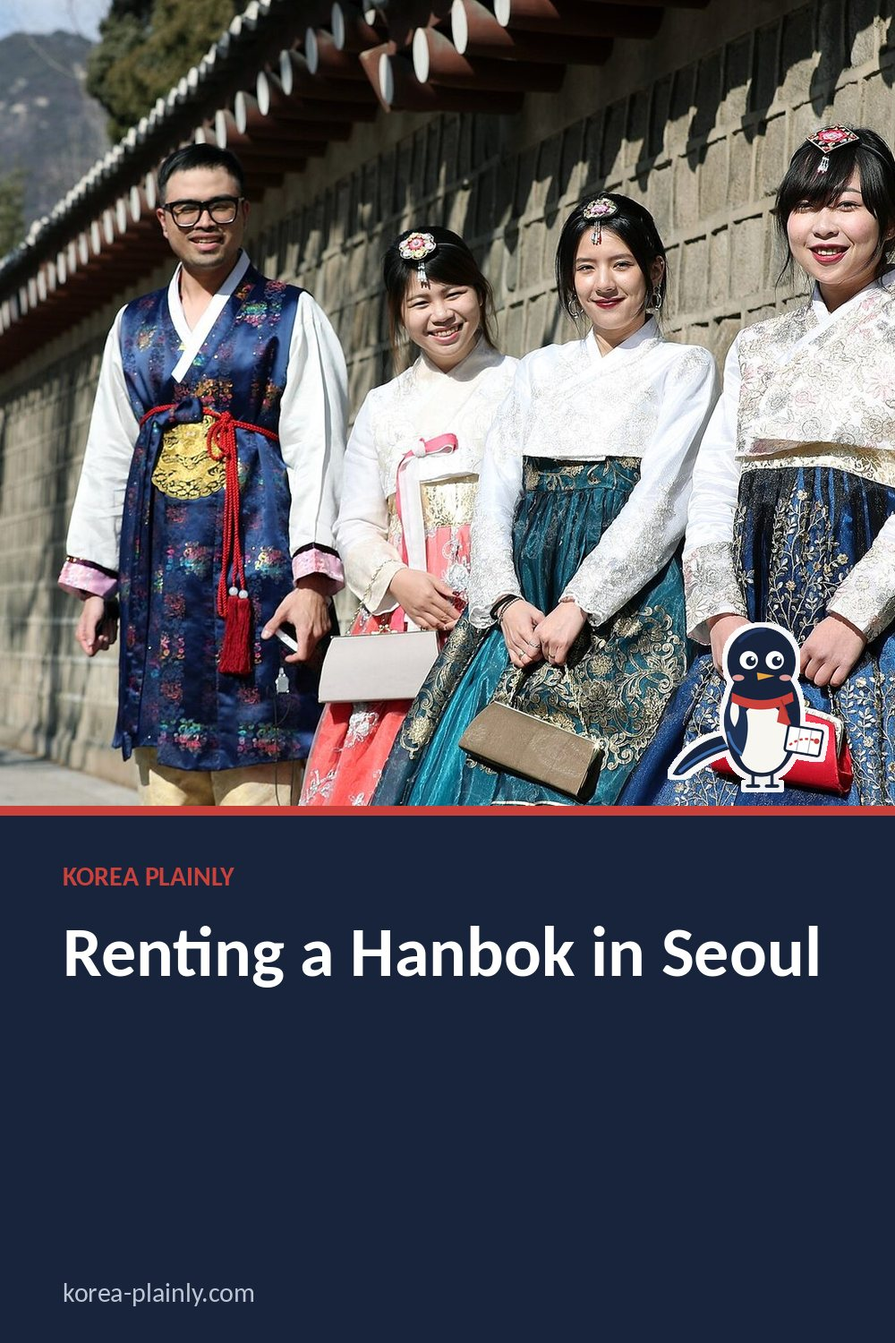
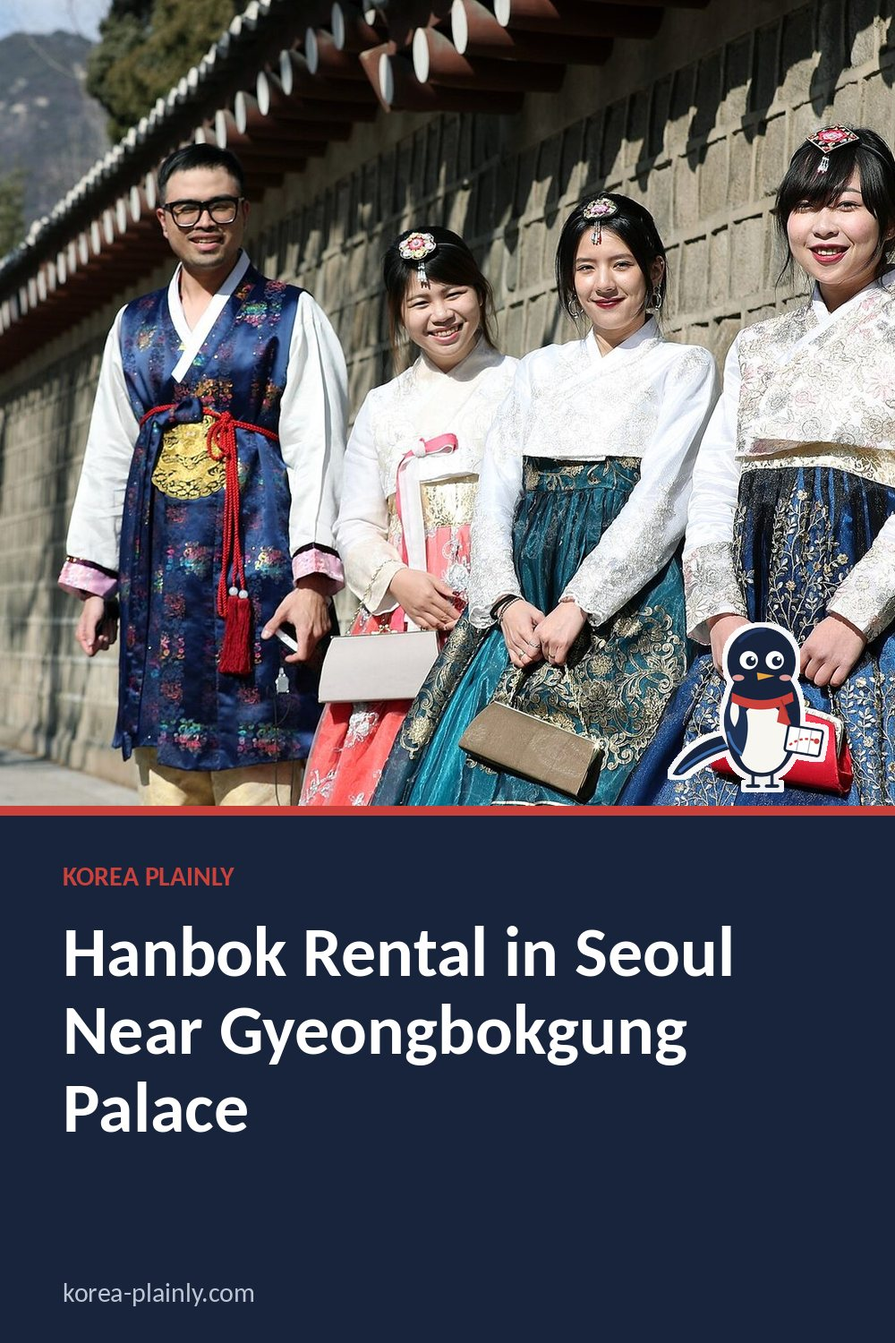
Hanbok guide: retitle for 'hanbok rental gyeongbokgung palace' and expand; ice skating guide: add FAQ and real bottom line; FAQ step retries
- Hanbok rental guide: new title/description/card, shops by station near Gyeongbokgung,
  rough 2026 prices, step-by-step rental, winter layers, palace visit plan, fee-hike/free-entry
  review note, new FAQ
- Seoul ice skating (today's guide): FAQ was missing because add_article_faq.py failed;
  added FAQ, Seoul Plaza fee (about 1,000 won incl. skates, 2025-26) and a specific bottom line
- add_article_faq.py: tolerate text around the JSON and retry up to 3 times
- topics: queue 'korea trip package' gap topic next

Claude-Session: https://claude.ai/code/session_01MMQnqF7FaxaaNgJ9MKKyjX

Changed region(s): [[0.062, 0.6747, 0.93, 0.8587]]

diff --git a/hanbok-rental-guide.html b/hanbok-rental-guide.html
@@ -11,11 +11,11 @@
 >
 
 <link rel="stylesheet" href="style.css?v=20261015-1">
-<title>Renting a Hanbok in Seoul: Free Palace Entry and What to Expect</title>
+<title>Hanbok Rental in Seoul Near Gyeongbokgung Palace: Prices, Free Entry and Tips</title>
 
 <meta
   name="description"
-  content="How hanbok rental works in Seoul: where to rent, what it costs, how long it takes, free entry to the royal palaces in hanbok, closing days and photo tips."
+  content="Hanbok rental near Gyeongbokgung Palace: where the shops are, 2026 prices, how free palace entry in hanbok works, closing days and what to wear underneath."
 >
 <link
   rel="canonical"
@@ -29,12 +29,12 @@
 
 <meta
   property="og:title"
-  content="Renting a Hanbok in Seoul: Free Palace Entry and What to Expect"
+  content="Hanbok Rental in Seoul Near Gyeongbokgung Palace: Prices, Free Entry and Tips"
 >
 
 <meta
   property="og:description"
-  content="How hanbok rental works in Seoul: where to rent, what it costs, how long it takes, free entry to the royal palaces in hanbok, closing days and photo tips."
+  content="Hanbok rental near Gyeongbokgung Palace: where the shops are, 2026 prices, how free palace entry in hanbok works, closing days and what to wear underneath."
 >
 
 <meta
@@ -59,12 +59,12 @@
 
 <meta
   name="twitter:title"
-  content="Renting a Hanbok in Seoul: Free Palace Entry and What to Expect"
+  content="Hanbok Rental in Seoul Near Gyeongbokgung Palace: Prices, Free Entry and Tips"
 >
 
 <meta
   name="twitter:description"
-  content="How hanbok rental works in Seoul: where to rent, what it costs, how long it takes, free entry to the royal palaces in hanbok, closing days and photo tips."
+  content="Hanbok rental near Gyeongbokgung Palace: where the shops are, 2026 prices, how free palace entry in hanbok works, closing days and what to wear underneath."
 >
 
 <meta
@@ -244,12 +244,12 @@ footer {
 <script async src="https://www.googletagmanager.com/gtag/js?id=G-F508WWT8G9"></script><script>window.dataLayer=window.dataLayer||[];function gtag(){dataLayer.push(arguments);}gtag('js',new Date());gtag('config','G-F508WWT8G9');</script>
 <script async src="https://pagead2.googlesyndication.com/pagead/js/adsbygoogle.js?client=ca-pub-7379462117232471" crossorigin="anonymous"></script>
 <style>.kp-date{font-size:13px;color:#62635f;margin:-6px 0 22px}</style>
-<script type="application/ld+json" id="kp-faq-ld">{"@context": "https://schema.org", "@type": "FAQPage", "mainEntity": [{"@type": "Question", "name": "Do you really get into Seoul's palaces free in hanbok?", "acceptedAnswer": {"@type": "Answer", "text": "Yes. Visitors wearing hanbok enter the royal palaces, Jongmyo Shrine and the royal tombs free. Special tours and night openings may still need a ticket."}}, {"@type": "Question", "name": "How long does a hanbok rental last?", "acceptedAnswer": {"@type": "Answer", "text": "Most plans run for two to four hours, with longer or full-day plans available. Late returns usually cost extra."}}, {"@type": "Question", "name": "Can foreigners wear hanbok?", "acceptedAnswer": {"@type": "Answer", "text": "Yes. Rental shops cater to visitors, and wearing hanbok to the palaces is seen as a friendly way to enjoy Korean culture."}}]}</script>
 <link rel="stylesheet" href="article.css?v=3">
 <link rel="stylesheet" href="https://fonts.googleapis.com/css2?family=DM+Sans:wght@400;500;600;700&family=Playfair+Display:ital,wght@0,600;1,600&display=swap">
 <link rel="icon" href="/favicon.svg" type="image/svg+xml">
-<script type="application/ld+json" id="kp-article-ld">{"@context": "https://schema.org", "@type": "Article", "headline": "Renting a Hanbok in Seoul: Free Palace Entry and What to Expect", "description": "How hanbok rental works in Seoul: where to rent, what it costs, how long it takes, free entry to the royal palaces in hanbok, closing days and photo tips.", "image": ["https://korea-plainly.com/photo-hanbok-rental-guide.jpg"], "datePublished": "2026-10-17", "dateModified": "2026-10-17", "author": {"@type": "Person", "name": "Jungsuk Kim", "url": "https://korea-plainly.com/about.html#author"}, "publisher": {"@type": "Organization", "name": "Korea Plainly", "url": "https://korea-plainly.com/"}, "mainEntityOfPage": "https://korea-plainly.com/hanbok-rental-guide.html"}</script>
-<script type="application/ld+json" id="kp-breadcrumb-ld">{"@context": "https://schema.org", "@type": "BreadcrumbList", "itemListElement": [{"@type": "ListItem", "position": 1, "name": "Home", "item": "https://korea-plainly.com/"}, {"@type": "ListItem", "position": 2, "name": "Guides", "item": "https://korea-plainly.com/guides.html"}, {"@type": "ListItem", "position": 3, "name": "Culture", "item": "https://korea-plainly.com/guides.html?category=culture"}, {"@type": "ListItem", "position": 4, "name": "Renting a Hanbok in Seoul: Free Palace Entry and What to Expect", "item": "https://korea-plainly.com/hanbok-rental-guide.html"}]}</script>
+<script type="application/ld+json" id="kp-faq-ld">{"@context": "https://schema.org", "@type": "FAQPage", "mainEntity": [{"@type": "Question", "name": "Do you really get into Seoul's palaces free in hanbok?", "acceptedAnswer": {"@type": "Answer", "text": "Yes, at the time of writing. Visitors wearing hanbok enter the royal palaces, Jongmyo Shrine and the royal tombs free, but special tours and night openings still need a ticket. The rules on what counts as hanbok are under review, so check the palace website before you go."}}, {"@type": "Question", "name": "How much is hanbok rental near Gyeongbokgung Palace?", "acceptedAnswer": {"@type": "Answer", "text": "A basic hanbok for two to four hours is roughly ₩15,000-30,000 in 2026, with premium styles and full-day plans costing more. Hairstyling and accessories are sometimes extra, so ask what the price includes."}}, {"@type": "Question", "name": "How long does a hanbok rental last?", "acceptedAnswer": {"@type": "Answer", "text": "Most plans run for two or four hours, with full-day plans at many shops. Two hours suits Gyeongbokgung alone; four hours lets you add Bukchon or Changdeokgung without watching the clock."}}]}</script>
+<script type="application/ld+json" id="kp-article-ld">{"@context": "https://schema.org", "@type": "Article", "headline": "Hanbok Rental in Seoul Near Gyeongbokgung Palace: Prices, Free Entry and Tips", "description": "Hanbok rental near Gyeongbokgung Palace: where the shops are, 2026 prices, how free palace entry in hanbok works, closing days and what to wear underneath.", "image": ["https://korea-plainly.com/photo-hanbok-rental-guide.jpg"], "datePublished": "2026-10-17", "dateModified": "2026-11-01", "author": {"@type": "Person", "name": "Jungsuk Kim", "url": "https://korea-plainly.com/about.html#author"}, "publisher": {"@type": "Organization", "name": "Korea Plainly", "url": "https://korea-plainly.com/"}, "mainEntityOfPage": "https://korea-plainly.com/hanbok-rental-guide.html"}</script>
+<script type="application/ld+json" id="kp-breadcrumb-ld">{"@context": "https://schema.org", "@type": "BreadcrumbList", "itemListElement": [{"@type": "ListItem", "position": 1, "name": "Home", "item": "https://korea-plainly.com/"}, {"@type": "ListItem", "position": 2, "name": "Guides", "item": "https://korea-plainly.com/guides.html"}, {"@type": "ListItem", "position": 3, "name": "Culture", "item": "https://korea-plainly.com/guides.html?category=culture"}, {"@type": "ListItem", "position": 4, "name": "Hanbok Rental in Seoul Near Gyeongbokgung Palace: Prices, Free Entry and Tips", "item": "https://korea-plainly.com/hanbok-rental-guide.html"}]}</script>
 <meta property="article:published_time" content="2026-10-17">
 </head>
 
@@ -280,12 +280,12 @@ CULTURE · SEOUL
 </div>
 
 <h1>
-Renting a Hanbok in Seoul: Free Palace Entry and What to Expect
+Hanbok Rental in Seoul Near Gyeongbokgung Palace: Prices, Free Entry and Tips
 </h1>
-<p class="kp-date" data-kp="date">By <a href="about.html#author">Jungsuk Kim</a>, Korea Plainly · Published <time datetime="2026-10-17">17 October 2026</time></p>
+<p class="kp-date" data-kp="date">By <a href="about.html#author">Jungsuk Kim</a>, Korea Plainly · Published <time datetime="2026-10-17">17 October 2026</time> · Updated <time datetime="2026-11-01">1 November 2026</time></p>
 
 <p class="dek">
-How hanbok rental works in Seoul: where to rent, what it costs, how long it takes, free entry to the royal palaces in hanbok, closing days and photo tips.
+Hanbok rental near Gyeongbokgung Palace: where the shops are, 2026 prices, how free palace entry in hanbok works, closing days and what to wear underneath.
 </p>
 
 <img
@@ -297,53 +297,70 @@ How hanbok rental works in Seoul: where to rent, what it costs, how long it take
 
 <article>
 
-<p>Walking through a royal palace in a hanbok, the traditional Korean dress, is one of the most popular things visitors do in Seoul, and Koreans do it too. It is easy to arrange, it looks wonderful in photos, and it gets you into the palaces for free. Here is how it works.</p>
+<p>Putting on a hanbok, the traditional Korean dress, and walking through Gyeongbokgung Palace is one of the best-loved things to do in Seoul, for Korean visitors as much as foreign ones. Hanbok rental is cheap, quick and easy to book, the photos are lovely, and wearing one gets you into the royal palaces free. This guide covers where the rental shops near Gyeongbokgung are, what a rental costs, how the free entry works and how to plan the day so you are not rushing back to the shop.</p>
 
-<nav class="kp-toc" data-kp="toc" aria-label="On this page"><p>On this page</p><ol><li><a href="#free-palace-entry">Free palace entry in hanbok</a></li><li><a href="#where-to-rent">Where to rent</a></li><li><a href="#how-it-works">How it works</a></li><li><a href="#etiquette-and-photos">Etiquette and photo tips</a></li><li><a href="#faq">FAQ</a></li></ol></nav>
+<nav class="kp-toc" data-kp="toc" aria-label="On this page"><p>On this page</p><ol><li><a href="#free-palace-entry">Free palace entry in hanbok</a></li><li><a href="#where-to-rent">Hanbok rental near Gyeongbokgung Palace</a></li><li><a href="#prices">What a rental costs</a></li><li><a href="#how-it-works">How a rental works, step by step</a></li><li><a href="#plan-the-visit">Planning your palace visit</a></li><li><a href="#etiquette-and-photos">Etiquette and photo tips</a></li><li><a href="#faq">FAQ</a></li></ol></nav>
 <h2 id="free-palace-entry">Free palace entry in hanbok</h2>
-<p>If you wear a hanbok, you can enter Seoul's royal palaces free of charge: Gyeongbokgung, Changdeokgung, Changgyeonggung and Deoksugung, as well as Jongmyo Shrine and the Joseon royal tombs. Normal tickets cost only a few thousand won, so the saving is small, but it is a nice bonus. Some special programmes, such as the Secret Garden tour at Changdeokgung and night openings, are not included, and the heritage authorities have been reviewing palace fees, so check the official palace websites before you go.</p>
-<p>Staff decide what counts as hanbok at the gate. A standard rental hanbok, traditional or modern-style, is normally fine.</p>
+<p>Visitors wearing hanbok enter Seoul's royal palaces free: Gyeongbokgung, Changdeokgung, Changgyeonggung and Deoksugung, plus Jongmyo Shrine and the Joseon royal tombs. Normal adult tickets are small anyway (about ₩3,000 for Gyeongbokgung and Changdeokgung in 2026), so treat the free entry as a bonus rather than the reason to rent.</p>
+<p>Two things are worth knowing. First, special programmes are not covered: the Secret Garden (Huwon) tour at Changdeokgung and the seasonal night openings need their own tickets. Second, the rules are under review. A planned rise in palace fees from 2027 has been put on hold, and the heritage authorities have said they will look again at which outfits count as hanbok for free entry. A standard rental set, traditional or modern-style, has been accepted at the gate so far, but check the official palace websites before your trip.</p>
 <h3>Closing days</h3>
-<p>Each palace closes one day a week: Gyeongbokgung usually on Tuesdays, and Changdeokgung, Changgyeonggung and Deoksugung usually on Mondays. Check before you rent, so you do not dress up for a closed gate. Our <a href="seoul-culture-gyeongbokgung-palace.html">Gyeongbokgung guide</a> and <a href="best-time-seoul-attractions.html">best times for Seoul attractions</a> help you plan the visit.</p>
+<p>Each palace closes one day a week: Gyeongbokgung usually on Tuesdays, and Changdeokgung, Changgyeonggung and Deoksugung usually on Mondays. Rental shops stay open on those days, so it is easy to dress up and then find the gate shut. Check before you book, and see our <a href="best-time-seoul-attractions.html">best times for Seoul attractions</a> for the quietest hours.</p>
 
-<h2 id="where-to-rent">Where to rent</h2>
-<p>Rental shops cluster around the palace you plan to visit:</p>
+<h2 id="where-to-rent">Hanbok rental near Gyeongbokgung Palace</h2>
+<p>Most visitors rent within a ten-minute walk of the palace, so they spend their rental time inside the gates rather than on the pavement:</p>
 <ul>
-<li><strong>Near Gyeongbokgung:</strong> dozens of shops around Anguk and Gyeongbokgung stations, and in the streets of Seochon and Bukchon.</li>
-<li><strong>Bukchon and Insadong:</strong> handy for Changdeokgung and the hanok alleys of <a href="seoul-3-day-itinerary.html">Bukchon Hanok Village</a>.</li>
-<li><strong>Other cities:</strong> shops also gather near Jeonju Hanok Village and Gyeongju's old town, where hanbok fits the setting just as well.</li>
+<li><strong>Gyeongbokgung Station (Line 3):</strong> exits 4 and 5 bring you out by the palace's west side and the Seochon streets, where many small shops sit above cafés and convenience stores.</li>
+<li><strong>Anguk Station (Line 3):</strong> the streets towards Bukchon and Insadong have the largest cluster. This side is handy if you also want Changdeokgung or the hanok alleys of <a href="seoul-3-day-itinerary.html">Bukchon Hanok Village</a>.</li>
+<li><strong>Gwanghwamun Station (Line 5):</strong> a few shops near the main gate, useful if you are coming from City Hall or Myeongdong.</li>
 </ul>
-<p>Search 한복대여 (hanbok rental) on Naver Map or KakaoMap to see shops, reviews and photos. Many take online bookings, which is worth doing at weekends and in spring and autumn.</p>
+<p>Search 한복대여 (hanbok rental) on Naver Map or KakaoMap, which show shop photos, recent reviews and walking routes (our <a href="naver-map-vs-google-maps-korea.html">map app guide</a> explains which to use). Google Maps listings are thinner. Booking a day or two ahead is wise for spring and autumn weekends, when the palace is at its busiest.</p>
+<p>Outside Seoul, the same thing works in <a href="jeonju-hanok-village-from-seoul.html">Jeonju Hanok Village</a> and Gyeongju's old town, where the streets of traditional houses suit a hanbok just as well.</p>
 
-<h2 id="how-it-works">How it works</h2>
+<h2 id="prices">What a rental costs</h2>
+<p>Prices vary by shop, style and length of rental. As a rough guide for 2026:</p>
+<ul>
+<li><strong>Basic hanbok, 2-4 hours:</strong> roughly ₩15,000-30,000.</li>
+<li><strong>Premium or embroidered "royal" styles:</strong> often ₩30,000-50,000, and more for designer pieces.</li>
+<li><strong>Full day:</strong> roughly ₩30,000-60,000.</li>
+<li><strong>Extras:</strong> hairstyling, a hair ribbon (daenggi), a traditional hat for men, or a second fitting may cost a few thousand won each, though many shops include a simple hairstyle.</li>
+</ul>
+<p>Shops usually ask for ID or a small deposit. Prices online are sometimes lower than walk-in prices, so compare the shop's own booking page, Naver reservations and travel booking apps.</p>
+
+<h2 id="how-it-works">How a rental works, step by step</h2>
 <ol>
-<li><strong>Choose your hanbok.</strong> Racks of skirts and jackets in every colour. Staff help you match them and dress you in a fitting room.</li>
-<li><strong>Add extras.</strong> A hairstyling service, hair ornaments, a small bag or a traditional-style hat for men often cost a little more.</li>
-<li><strong>Leave your things.</strong> Most shops keep your bag and clothes while you are out. Take your phone, cards and a small amount of cash.</li>
-<li><strong>Return on time.</strong> Plans usually run for two to four hours or a full day, with late fees after that.</li>
+<li><strong>Arrive on time.</strong> Your rental time usually starts when you leave the shop, not when you arrive, but slots fill up and late arrivals wait.</li>
+<li><strong>Choose your hanbok.</strong> Women pick a jeogori (short jacket) and a long chima (skirt); men pick a jacket, trousers and often a vest. Staff help match colours and dress you in a fitting room. If you are a man, ask for men's styles directly; some shops show women's racks first.</li>
+<li><strong>Add hair and accessories.</strong> Braids, a bun with a pin, a small bag and a ribbon complete the look.</li>
+<li><strong>Leave your things.</strong> The shop keeps your bag and coat. Take your phone, a card and a little cash in the small hanbok bag.</li>
+<li><strong>Return on time.</strong> Late returns are charged, often per hour. Two hours is enough for Gyeongbokgung alone; choose four if you also want Bukchon or a café stop.</li>
 </ol>
-<p>Prices change and vary with the style and the length of rental. Basic plans are usually reasonable, and premium hanbok with embroidery or a "royal" look cost more. Many shops ask for ID or a deposit.</p>
-<div class="tip"><strong>Tip:</strong> Wear a thin top and leggings or shorts underneath; the hanbok goes over your clothes. In summer it can be hot, and in winter ask for a padded jacket or a fur-trimmed shawl, which many shops offer.</div>
+<div class="tip"><strong>What to wear underneath:</strong> a thin T-shirt and leggings or shorts, since the hanbok goes over your clothes, and flat shoes you can walk in on gravel. In summer it is hot, so go early. From November to February ask for a padded jacket, fur-trimmed shawl or inner layer; most shops have winter sets.</div>
+
+<h2 id="plan-the-visit">Planning your palace visit</h2>
+<ul>
+<li><strong>Go early.</strong> The first hour after opening is quieter and the light is softer for photos.</li>
+<li><strong>See the guard ceremony.</strong> The royal guard changing ceremony at Gwanghwamun Gate usually takes place mid-morning and early afternoon; times change with season and weather, so check on the day.</li>
+<li><strong>Good photo spots:</strong> Geunjeongjeon throne hall, the pond pavilion of Gyeonghoeru, and Hyangwonjeong pavilion at the back of the grounds, which is quieter.</li>
+<li><strong>Bukchon after the palace:</strong> parts of Bukchon limit tourist visits to daytime hours, and residents live in these houses, so keep your voice down and do not step into doorways.</li>
+</ul>
 
 <h2 id="etiquette-and-photos">Etiquette and photo tips</h2>
 <ul>
-<li>Wearing hanbok as a visitor is welcomed, not seen as disrespectful. Locals often smile and may ask for a photo.</li>
-<li>Go early. Palaces are quieter and the light is softer in the first hour after opening.</li>
-<li>The skirt is long: lift it slightly on stairs and gravel, and watch it near puddles.</li>
-<li>Do not climb on palace buildings or step over barriers for a shot. Palace staff will stop you.</li>
-<li>Some shops offer a photographer for hire if you want proper portraits.</li>
+<li>Visitors in hanbok are welcomed, not seen as disrespectful. Locals often smile and some may ask for a photo.</li>
+<li>Lift the skirt slightly on stairs and gravel, and watch it near puddles and food.</li>
+<li>Do not climb on buildings, sit on stone platforms marked off, or step over barriers for a shot. Palace staff will stop you.</li>
+<li>Tripods and drones have their own rules at the palaces; a phone is simplest. Many shops offer a photographer for hire.</li>
 </ul>
 
 <section class="faq">
 <h2 id="faq">FAQ</h2>
 <h3>Do you really get into Seoul's palaces free in hanbok?</h3>
-<p>Yes. Visitors wearing hanbok enter the royal palaces, Jongmyo Shrine and the royal tombs free. Special tours and night openings may still need a ticket.</p>
+<p>Yes, at the time of writing. Visitors wearing hanbok enter the royal palaces, Jongmyo Shrine and the royal tombs free, but special tours and night openings still need a ticket. The rules on what counts as hanbok are under review, so check the palace website before you go.</p>
+<h3>How much is hanbok rental near Gyeongbokgung Palace?</h3>
+<p>A basic hanbok for two to four hours is roughly ₩15,000-30,000 in 2026, with premium styles and full-day plans costing more. Hairstyling and accessories are sometimes extra, so ask what the price includes.</p>
 <h3>How long does a hanbok rental last?</h3>
-<p>Most plans run for two to four hours, with longer or full-day plans available. Late returns usually cost extra.</p>
-<h3>Can foreigners wear hanbok?</h3>
-<p>Yes. Rental shops cater to visitors, and wearing hanbok to the palaces is seen as a friendly way to enjoy Korean culture.</p>
+<p>Most plans run for two or four hours, with full-day plans at many shops. Two hours suits Gyeongbokgung alone; four hours lets you add Bukchon or Changdeokgung without watching the clock.</p>
 </section>
-
 
 
 <!-- kp-kkachi -->

diff --git a/seoul-ice-skating-rinks.html b/seoul-ice-skating-rinks.html
@@ -244,12 +244,13 @@ footer {
 <script async src="https://www.googletagmanager.com/gtag/js?id=G-F508WWT8G9"></script><script>window.dataLayer=window.dataLayer||[];function gtag(){dataLayer.push(arguments);}gtag('js',new Date());gtag('config','G-F508WWT8G9');</script>
 <script async src="https://pagead2.googlesyndication.com/pagead/js/adsbygoogle.js?client=ca-pub-7379462117232471" crossorigin="anonymous"></script>
 <style>.kp-date{font-size:13px;color:#62635f;margin:-6px 0 22px}</style>
-<script type="application/ld+json" id="kp-article-ld">{"@context": "https://schema.org", "@type": "Article", "headline": "Ice Skating in Seoul: Winter Outdoor Rinks for Visitors", "description": "Find Seoul’s seasonal outdoor ice rinks, how to get there, what to wear, and what to do nearby when you need a warm-up.", "image": ["https://korea-plainly.com/seoul.jpg"], "datePublished": "2026-11-01", "dateModified": "2026-11-01", "author": {"@type": "Person", "name": "Jungsuk Kim", "url": "https://korea-plainly.com/about.html#author"}, "publisher": {"@type": "Organization", "name": "Korea Plainly", "url": "https://korea-plainly.com/"}, "mainEntityOfPage": "https://korea-plainly.com/seoul-ice-skating-rinks.html"}</script>
-<script type="application/ld+json" id="kp-breadcrumb-ld">{"@context": "https://schema.org", "@type": "BreadcrumbList", "itemListElement": [{"@type": "ListItem", "position": 1, "name": "Home", "item": "https://korea-plainly.com/"}, {"@type": "ListItem", "position": 2, "name": "Guides", "item": "https://korea-plainly.com/guides.html"}, {"@type": "ListItem", "position": 3, "name": "Ice Skating in Seoul: Winter Outdoor Rinks for Visitors", "item": "https://korea-plainly.com/seoul-ice-skating-rinks.html"}]}</script>
-<meta property="article:published_time" content="2026-11-01">
 <link rel="stylesheet" href="article.css?v=3">
 <link rel="stylesheet" href="https://fonts.googleapis.com/css2?family=DM+Sans:wght@400;500;600;700&family=Playfair+Display:ital,wght@0,600;1,600&display=swap">
 <link rel="icon" href="/favicon.svg" type="image/svg+xml">
+<script type="application/ld+json" id="kp-faq-ld">{"@context": "https://schema.org", "@type": "FAQPage", "mainEntity": [{"@type": "Question", "name": "When does the Seoul Plaza ice rink open?", "acceptedAnswer": {"@type": "Answer", "text": "It is a winter-only rink. In recent years it has opened in the second half of December and closed in February, but the dates are announced each autumn by the Seoul Metropolitan Government, so check before you plan a day around it."}}, {"@type": "Question", "name": "Do I need to bring my own skates?", "acceptedAnswer": {"@type": "Answer", "text": "No. Rental skates come with a Seoul Plaza ticket, and hotel rinks rent them too. Bring gloves and warm socks; thin cotton gloves from a convenience store are enough."}}, {"@type": "Question", "name": "Is ice skating in Seoul suitable for children?", "acceptedAnswer": {"@type": "Answer", "text": "Yes. Seoul Plaza is busy with families at weekends, and children can hold the barrier while they find their feet. Go on a weekday morning if you want more space, and dress them in layers with a hat."}}]}</script>
+<script type="application/ld+json" id="kp-article-ld">{"@context": "https://schema.org", "@type": "Article", "headline": "Ice Skating in Seoul: Winter Outdoor Rinks for Visitors", "description": "Find Seoul’s seasonal outdoor ice rinks, how to get there, what to wear, and what to do nearby when you need a warm-up.", "image": ["https://korea-plainly.com/seoul.jpg"], "datePublished": "2026-11-01", "dateModified": "2026-11-01", "author": {"@type": "Person", "name": "Jungsuk Kim", "url": "https://korea-plainly.com/about.html#author"}, "publisher": {"@type": "Organization", "name": "Korea Plainly", "url": "https://korea-plainly.com/"}, "mainEntityOfPage": "https://korea-plainly.com/seoul-ice-skating-rinks.html"}</script>
+<script type="application/ld+json" id="kp-breadcrumb-ld">{"@context": "https://schema.org", "@type": "BreadcrumbList", "itemListElement": [{"@type": "ListItem", "position": 1, "name": "Home", "item": "https://korea-plainly.com/"}, {"@type": "ListItem", "position": 2, "name": "Guides", "item": "https://korea-plainly.com/guides.html"}, {"@type": "ListItem", "position": 3, "name": "Ice Skating in Seoul: Winter Outdoor Rinks for Visitors", "item": "https://korea-plainly.com/seoul-ice-skating-rinks.html"}]}</script>
+<meta property="article:published_time" content="2026-11-01">
 </head>
 
 <body class="kp-article">
@@ -295,21 +296,20 @@ Find Seoul’s seasonal outdoor ice rinks, how to get there, what to wear, and w
 
 <article>
 
-<p>Outdoor ice skating in Seoul is a winter-season activity, not a year-round attraction. The best-known public rink is set up at Seoul Plaza in front of City Hall. A second option is the outdoor rink at Grand Hyatt Seoul, a hotel on the slopes of Namsan. Dates, ticket arrangements and access can change each winter, so plan around the current season rather than an old travel post.</p><nav class="kp-toc" data-kp="toc" aria-label="On this page"><p>On this page</p><ol><li><a href="#seoul-plaza-the-central-budget-friendly-choice">Seoul Plaza: the central, budget-friendly choice</a></li><li><a href="#grand-hyatt-seoul-a-namsan-setting">Grand Hyatt Seoul: a Namsan setting</a></li><li><a href="#what-to-wear-and-bring">What to wear and bring</a></li><li><a href="#make-a-day-of-it-near-city-hall">Make a day of it near City Hall</a></li><li><a href="#if-the-outdoor-rink-is-closed">If the outdoor rink is closed</a></li></ol></nav>
-<h2 id="seoul-plaza-the-central-budget-friendly-choice">Seoul Plaza: the central, budget-friendly choice</h2><p>Seoul Plaza Ice Skating Rink is an open-air rink in the middle of the city, with City Hall’s glass-and-stone building behind it. It is convenient if you are staying in Myeongdong, Euljiro or Jongno, and easy to combine with a walk past Deoksugung Palace. The closest subway stop is City Hall on Lines 1 and 2; follow signs for City Hall or Seoul Plaza and cross to the open square.</p><p>The rink usually operates for a limited winter season, and its layout and session arrangements are announced each year. Public skating has often been inexpensive by Seoul standards: budget roughly ₩1,000–₩2,000 (2026) for a session, but confirm what the current ticket includes. Skate rental may be part of the ticket arrangement. Gloves are commonly required on the ice, so bring a pair or buy inexpensive ones at a nearby convenience store. Wear warm socks, and arrive early if you need time to rent skates or get comfortable.</p><p>For current dates and booking details, check the Seoul Metropolitan Government’s official website; you can also check current details on Naver Map. If online reservations are offered, follow the rink’s own booking instructions rather than assuming that a third-party listing is up to date. A session can feel short if you spend too much of it in a queue, especially on a weekend or holiday.</p><h2 id="grand-hyatt-seoul-a-namsan-setting">Grand Hyatt Seoul: a Namsan setting</h2><p>The Grand Hyatt Seoul has a seasonal outdoor ice rink on its hotel grounds in Yongsan-gu. Its setting among the trees on Namsan feels very different from the busy plaza downtown, and it can make a memorable evening outing. This is a hotel venue rather than a city-run public facility, so expect a higher price than at Seoul Plaza and check whether non-hotel visitors can book for the dates you want. Packages, rental terms and access can vary by season.</p><p>The nearest subway station is Hangangjin on Line 6, but the hotel is uphill from the station. In cold weather, especially with children or skate bags, a taxi is often more comfortable than walking the slope. Show the driver Grand Hyatt Seoul or the Korean name 그랜드 하얏트 서울. Before setting out, confirm the rink’s season, ticket price and entry rules on the hotel’s official website. Do not assume that a hotel room reservation is needed—or that it is not; check the current policy.</p><h2 id="what-to-wear-and-bring">What to wear and bring</h2><p>Seoul winters can be windy, and an outdoor rink feels colder than the temperature suggests because you are standing on ice. Wear layers, a warm coat, gloves, and socks that cover your ankles. Gloves help protect your hands if you fall and may be required by rink rules. A hat or ear warmer is useful for children. Avoid very thick socks that make rental skates painfully tight; a snug fit gives you better control.</p><p>Pack a small bag for your shoes and valuables, and check whether the venue has lockers before arriving. If you are new to skating, use the rink barrier for balance and take a few slow laps before trying to skate faster. Keep phones and cameras secure rather than holding them while moving. Follow staff instructions about skating direction and stopping areas.</p><h2 id="make-a-day-of-it-near-city-hall">Make a day of it near City Hall</h2><p>Seoul Plaza works well as one stop on a central Seoul itinerary. After skating, warm up with soup or noodles around Euljiro, or head toward Myeongdong for snacks such as hotteok, a sweet filled pancake. Deoksugung Palace is just across the road from the plaza; the stone-wall path nearby is a pleasant short walk, though it can be slippery after snow. If you want to visit the palace, check its separate admission and closing information before you go.</p><p>For a simple food stop, look for a restaurant serving kalguksu (knife-cut noodle soup) or mandu (dumplings). These familiar Korean menu words are useful when you are choosing a warm meal after skating. City Hall and Myeongdong also have convenience stores where you can pick up hand warmers, called 핫팩 (hat-paek), and extra gloves.</p><h2 id="if-the-outdoor-rink-is-closed">If the outdoor rink is closed</h2><p>Outdoor rinks appear only during the cold-weather season, so a mild winter day or an early or late trip may not line up with the opening dates. For an indoor alternative, Lotte World Ice Rink is inside the Lotte World complex in Jamsil, near Jamsil Station on Lines 2 and 8. It is not an outdoor rink, but it gives you a skating option when the seasonal plazas are unavailable. Check its current admission and rental information separately, and remember that the rink is part of a busy shopping and entertainment area.</p><p>For the easiest outdoor outing, choose Seoul Plaza for central access and a public-rink feel. Pick Grand Hyatt Seoul for its Namsan setting, after checking visitor access and cost. In either case, confirm the season before travelling, bring gloves, and leave extra time for winter transport and skate rental.</p>
+<p>Outdoor ice skating in Seoul is a winter-season activity, not a year-round attraction. The best-known public rink is set up at Seoul Plaza in front of City Hall. A second option is the outdoor rink at Grand Hyatt Seoul, a hotel on the slopes of Namsan. Dates, ticket arrangements and access can change each winter, so plan around the current season rather than an old travel post.</p><nav class="kp-toc" data-kp="toc" aria-label="On this page"><p>On this page</p><ol><li><a href="#seoul-plaza-the-central-budget-friendly-choice">Seoul Plaza: the central, budget-friendly choice</a></li><li><a href="#grand-hyatt-seoul-a-namsan-setting">Grand Hyatt Seoul: a Namsan setting</a></li><li><a href="#what-to-wear-and-bring">What to wear and bring</a></li><li><a href="#make-a-day-of-it-near-city-hall">Make a day of it near City Hall</a></li><li><a href="#if-the-outdoor-rink-is-closed">If the outdoor rink is closed</a></li><li><a href="#faq">FAQ</a></li></ol></nav>
+<h2 id="seoul-plaza-the-central-budget-friendly-choice">Seoul Plaza: the central, budget-friendly choice</h2><p>Seoul Plaza Ice Skating Rink is an open-air rink in the middle of the city, with City Hall’s glass-and-stone building behind it. It is convenient if you are staying in Myeongdong, Euljiro or Jongno, and easy to combine with a walk past Deoksugung Palace. The closest subway stop is City Hall on Lines 1 and 2; follow signs for City Hall or Seoul Plaza and cross to the open square.</p><p>The rink usually operates for a limited winter season, and its layout and session arrangements are announced each year. It is one of the cheapest outings in the city: in the 2025-26 season an hour-long session cost about ₩1,000, with skates and a helmet included, a price the city has kept for many years. Confirm the fee for the current season before you go. Gloves are commonly required on the ice, so bring a pair or buy inexpensive ones at a nearby convenience store. Wear warm socks, and arrive early if you need time to rent skates or get comfortable.</p><p>For current dates and booking details, check the Seoul Metropolitan Government’s official website; you can also check current details on Naver Map. If online reservations are offered, follow the rink’s own booking instructions rather than assuming that a third-party listing is up to date. A session can feel short if you spend too much of it in a queue, especially on a weekend or holiday.</p><h2 id="grand-hyatt-seoul-a-namsan-setting">Grand Hyatt Seoul: a Namsan setting</h2><p>The Grand Hyatt Seoul has a seasonal outdoor ice rink on its hotel grounds in Yongsan-gu. Its setting among the trees on Namsan feels very different from the busy plaza downtown, and it can make a memorable evening outing. This is a hotel venue rather than a city-run public facility, so expect a higher price than at Seoul Plaza and check whether non-hotel visitors can book for the dates you want. Packages, rental terms and access can vary by season.</p><p>The nearest subway station is Hangangjin on Line 6, but the hotel is uphill from the station. In cold weather, especially with children or skate bags, a taxi is often more comfortable than walking the slope. Show the driver Grand Hyatt Seoul or the Korean name 그랜드 하얏트 서울. Before setting out, confirm the rink’s season, ticket price and entry rules on the hotel’s official website. Do not assume that a hotel room reservation is needed—or that it is not; check the current policy.</p><h2 id="what-to-wear-and-bring">What to wear and bring</h2><p>Seoul winters can be windy, and an outdoor rink feels colder than the temperature suggests because you are standing on ice. Wear layers, a warm coat, gloves, and socks that cover your ankles. Gloves help protect your hands if you fall and may be required by rink rules. A hat or ear warmer is useful for children. Avoid very thick socks that make rental skates painfully tight; a snug fit gives you better control.</p><p>Pack a small bag for your shoes and valuables, and check whether the venue has lockers before arriving. If you are new to skating, use the rink barrier for balance and take a few slow laps before trying to skate faster. Keep phones and cameras secure rather than holding them while moving. Follow staff instructions about skating direction and stopping areas.</p><h2 id="make-a-day-of-it-near-city-hall">Make a day of it near City Hall</h2><p>Seoul Plaza works well as one stop on a central Seoul itinerary. After skating, warm up with soup or noodles around Euljiro, or head toward Myeongdong for snacks such as hotteok, a sweet filled pancake. Deoksugung Palace is just across the road from the plaza; the stone-wall path nearby is a pleasant short walk, though it can be slippery after snow. If you want to visit the palace, check its separate admission and closing information before you go.</p><p>For a simple food stop, look for a restaurant serving kalguksu (knife-cut noodle soup) or mandu (dumplings). These familiar Korean menu words are useful when you are choosing a warm meal after skating. City Hall and Myeongdong also have convenience stores where you can pick up hand warmers, called 핫팩 (hat-paek), and extra gloves.</p><h2 id="if-the-outdoor-rink-is-closed">If the outdoor rink is closed</h2><p>Outdoor rinks appear only during the cold-weather season, so a mild winter day or an early or late trip may not line up with the opening dates. For an indoor alternative, Lotte World Ice Rink is inside the Lotte World complex in Jamsil, near Jamsil Station on Lines 2 and 8. It is not an outdoor rink, but it gives you a skating option when the seasonal plazas are unavailable. Check its current admission and rental information separately, and remember that the rink is part of a busy shopping and entertainment area.</p><p>For the easiest outdoor outing, choose Seoul Plaza for central access and a public-rink feel. Pick Grand Hyatt Seoul for its Namsan setting, after checking visitor access and cost. In either case, confirm the season before travelling, bring gloves, and leave extra time for winter transport and skate rental.</p>
 
-<div class="tip">
+<div class="tip"><strong>Bottom line:</strong> Seoul Plaza is the cheap, central choice for a first skate; the Grand Hyatt rink is the pricier one with the Namsan setting. Both are seasonal, usually from around mid-December into February, so check the dates for your winter and bring gloves.</div>
 
-<strong>
-Bottom line:
-</strong>
-
-A little preparation can make your
-time in Korea much easier.
-Keep this guide handy and enjoy
-exploring at your own pace.
-
-</div>
+<section class="faq">
+<h2 id="faq">FAQ</h2>
+<h3>When does the Seoul Plaza ice rink open?</h3>
+<p>It is a winter-only rink. In recent years it has opened in the second half of December and closed in February, but the dates are announced each autumn by the Seoul Metropolitan Government, so check before you plan a day around it.</p>
+<h3>Do I need to bring my own skates?</h3>
+<p>No. Rental skates come with a Seoul Plaza ticket, and hotel rinks rent them too. Bring gloves and warm socks; thin cotton gloves from a convenience store are enough.</p>
+<h3>Is ice skating in Seoul suitable for children?</h3>
+<p>Yes. Seoul Plaza is busy with families at weekends, and children can hold the barrier while they find their feet. Go on a weekday morning if you want more space, and dress them in layers with a hat.</p>
+</section>
 
 
 <!-- kp-kkachi -->

diff --git a/korea-festivals.html b/korea-festivals.html
@@ -248,7 +248,7 @@ footer {
 <link rel="stylesheet" href="https://fonts.googleapis.com/css2?family=DM+Sans:wght@400;500;600;700&family=Playfair+Display:ital,wght@0,600;1,600&display=swap">
 <link rel="icon" href="/favicon.svg" type="image/svg+xml">
 <script type="application/ld+json" id="kp-faq-ld">{"@context": "https://schema.org", "@type": "FAQPage", "mainEntity": [{"@type": "Question", "name": "Where does this festival list come from?", "acceptedAnswer": {"@type": "Answer", "text": "From the Korea Tourism Organization's official tourism data, which we check every week. Always confirm dates on the festival's own page before you travel."}}, {"@type": "Question", "name": "When is the best time for festivals in Korea?", "acceptedAnswer": {"@type": "Answer", "text": "Autumn has the most festivals, followed by spring. Winter is the season for lights, ice fishing and snow festivals."}}, {"@type": "Question", "name": "Are Korean festivals free?", "acceptedAnswer": {"@type": "Answer", "text": "Many are free to enter, especially street, lantern and food festivals. Some activities, such as ice fishing or paid seats at fireworks shows, cost extra."}}]}</script>
-<script type="application/ld+json" id="kp-article-ld">{"@context": "https://schema.org", "@type": "Article", "headline": "Festivals in Korea: What's On This Month and Coming Up", "description": "A festival calendar for Korea, updated every week: what is on now and coming up across the country, from food and lantern festivals to fireworks, flowers and ice fishing.", "image": ["https://korea-plainly.com/photo-korea-festivals.jpg"], "datePublished": "2026-10-15", "dateModified": "2026-10-31", "author": {"@type": "Person", "name": "Jungsuk Kim", "url": "https://korea-plainly.com/about.html#author"}, "publisher": {"@type": "Organization", "name": "Korea Plainly", "url": "https://korea-plainly.com/"}, "mainEntityOfPage": "https://korea-plainly.com/korea-festivals.html"}</script>
+<script type="application/ld+json" id="kp-article-ld">{"@context": "https://schema.org", "@type": "Article", "headline": "Festivals in Korea: What's On This Month and Coming Up", "description": "A festival calendar for Korea, updated every week: what is on now and coming up across the country, from food and lantern festivals to fireworks, flowers and ice fishing.", "image": ["https://korea-plainly.com/photo-korea-festivals.jpg"], "datePublished": "2026-10-15", "dateModified": "2026-11-01", "author": {"@type": "Person", "name": "Jungsuk Kim", "url": "https://korea-plainly.com/about.html#author"}, "publisher": {"@type": "Organization", "name": "Korea Plainly", "url": "https://korea-plainly.com/"}, "mainEntityOfPage": "https://korea-plainly.com/korea-festivals.html"}</script>
 <script type="application/ld+json" id="kp-breadcrumb-ld">{"@context": "https://schema.org", "@type": "BreadcrumbList", "itemListElement": [{"@type": "ListItem", "position": 1, "name": "Home", "item": "https://korea-plainly.com/"}, {"@type": "ListItem", "position": 2, "name": "Guides", "item": "https://korea-plainly.com/guides.html"}, {"@type": "ListItem", "position": 3, "name": "Travel Basics", "item": "https://korea-plainly.com/guides.html?category=travel"}, {"@type": "ListItem", "position": 4, "name": "Festivals in Korea: What's On This Month and Coming Up", "item": "https://korea-plainly.com/korea-festivals.html"}]}</script>
 <meta property="article:published_time" content="2026-10-15">
 </head>
@@ -282,7 +282,7 @@ TRAVEL BASICS · WHAT'S ON
 <h1>
 Festivals in Korea: What's On This Month and Coming Up
 </h1>
-<p class="kp-date" data-kp="date">By <a href="about.html#author">Jungsuk Kim</a>, Korea Plainly · Published <time datetime="2026-10-15">15 October 2026</time> · Updated <time datetime="2026-10-31">31 October 2026</time></p>
+<p class="kp-date" data-kp="date">By <a href="about.html#author">Jungsuk Kim</a>, Korea Plainly · Published <time datetime="2026-10-15">15 October 2026</time> · Updated <time datetime="2026-11-01">1 November 2026</time></p>
 
 <p class="dek">
 A festival calendar for Korea, updated every week: what is on now and coming up across the country, from food and lantern festivals to fireworks, flowers and ice fishing.

diff --git a/guides.html b/guides.html
@@ -2296,11 +2296,11 @@ CULTURE · SEOUL
 </small>
 
 <h2>
-Renting a Hanbok in Seoul: Free Palace Entry and What to Expect
+Hanbok Rental in Seoul Near Gyeongbokgung Palace: Prices, Free Entry and Tips
 </h2>
 
 <p>
-How hanbok rental works in Seoul: where to rent, what it costs, how long it takes, free entry to the royal palaces in hanbok, closing days and photo tips.
+Hanbok rental near Gyeongbokgung Palace: where the shops are, 2026 prices, how free palace entry in hanbok works, closing days and what to wear underneath.
 </p>
 
 <span class="guide-arrow">

diff --git a/scripts/add_article_faq.py b/scripts/add_article_faq.py
@@ -1,4 +1,4 @@
-import json, os, re
+import json, os, re, time
 from pathlib import Path
 from html import escape
 from openai import OpenAI
@@ -45,12 +45,30 @@ Rules:
 - Avoid repeating the article verbatim.
 """
 
-response=client.responses.create(
-    model=os.getenv("OPENAI_MODEL","gpt-6-luna"),
-    input=prompt
-)
-raw=re.sub(r"^```json\s*|\s*```$","",response.output_text.strip(),flags=re.I).strip()
-data=json.loads(raw)
+def ask():
+    response=client.responses.create(
+        model=os.getenv("OPENAI_MODEL","gpt-6-luna"),
+        input=prompt
+    )
+    raw=re.sub(r"^```json\s*|\s*```$","",response.output_text.strip(),flags=re.I).strip()
+    m=re.search(r"\{.*\}",raw,re.S)  # tolerate text around the JSON
+    data=json.loads(m.group(0) if m else raw)
+    faqs=[f for f in data.get("faqs",[]) if str(f.get("question","")).strip() and str(f.get("answer","")).strip()]
+    if len(faqs)<3:
+        raise ValueError(f"only {len(faqs)} usable FAQ items")
+    return faqs
+
+# retry: a single bad or truncated reply used to fail the whole Daily Publish run
+for attempt in range(1,4):
+    try:
+        faqs=ask()
+        break
+    except Exception as e:
+        print(f"FAQ attempt {attempt} failed: {e}")
+        if attempt==3:
+            raise
+        time.sleep(5*attempt)
+data={"faqs":faqs}
 
 items=[]
 for faq in data["faqs"][:3]:
